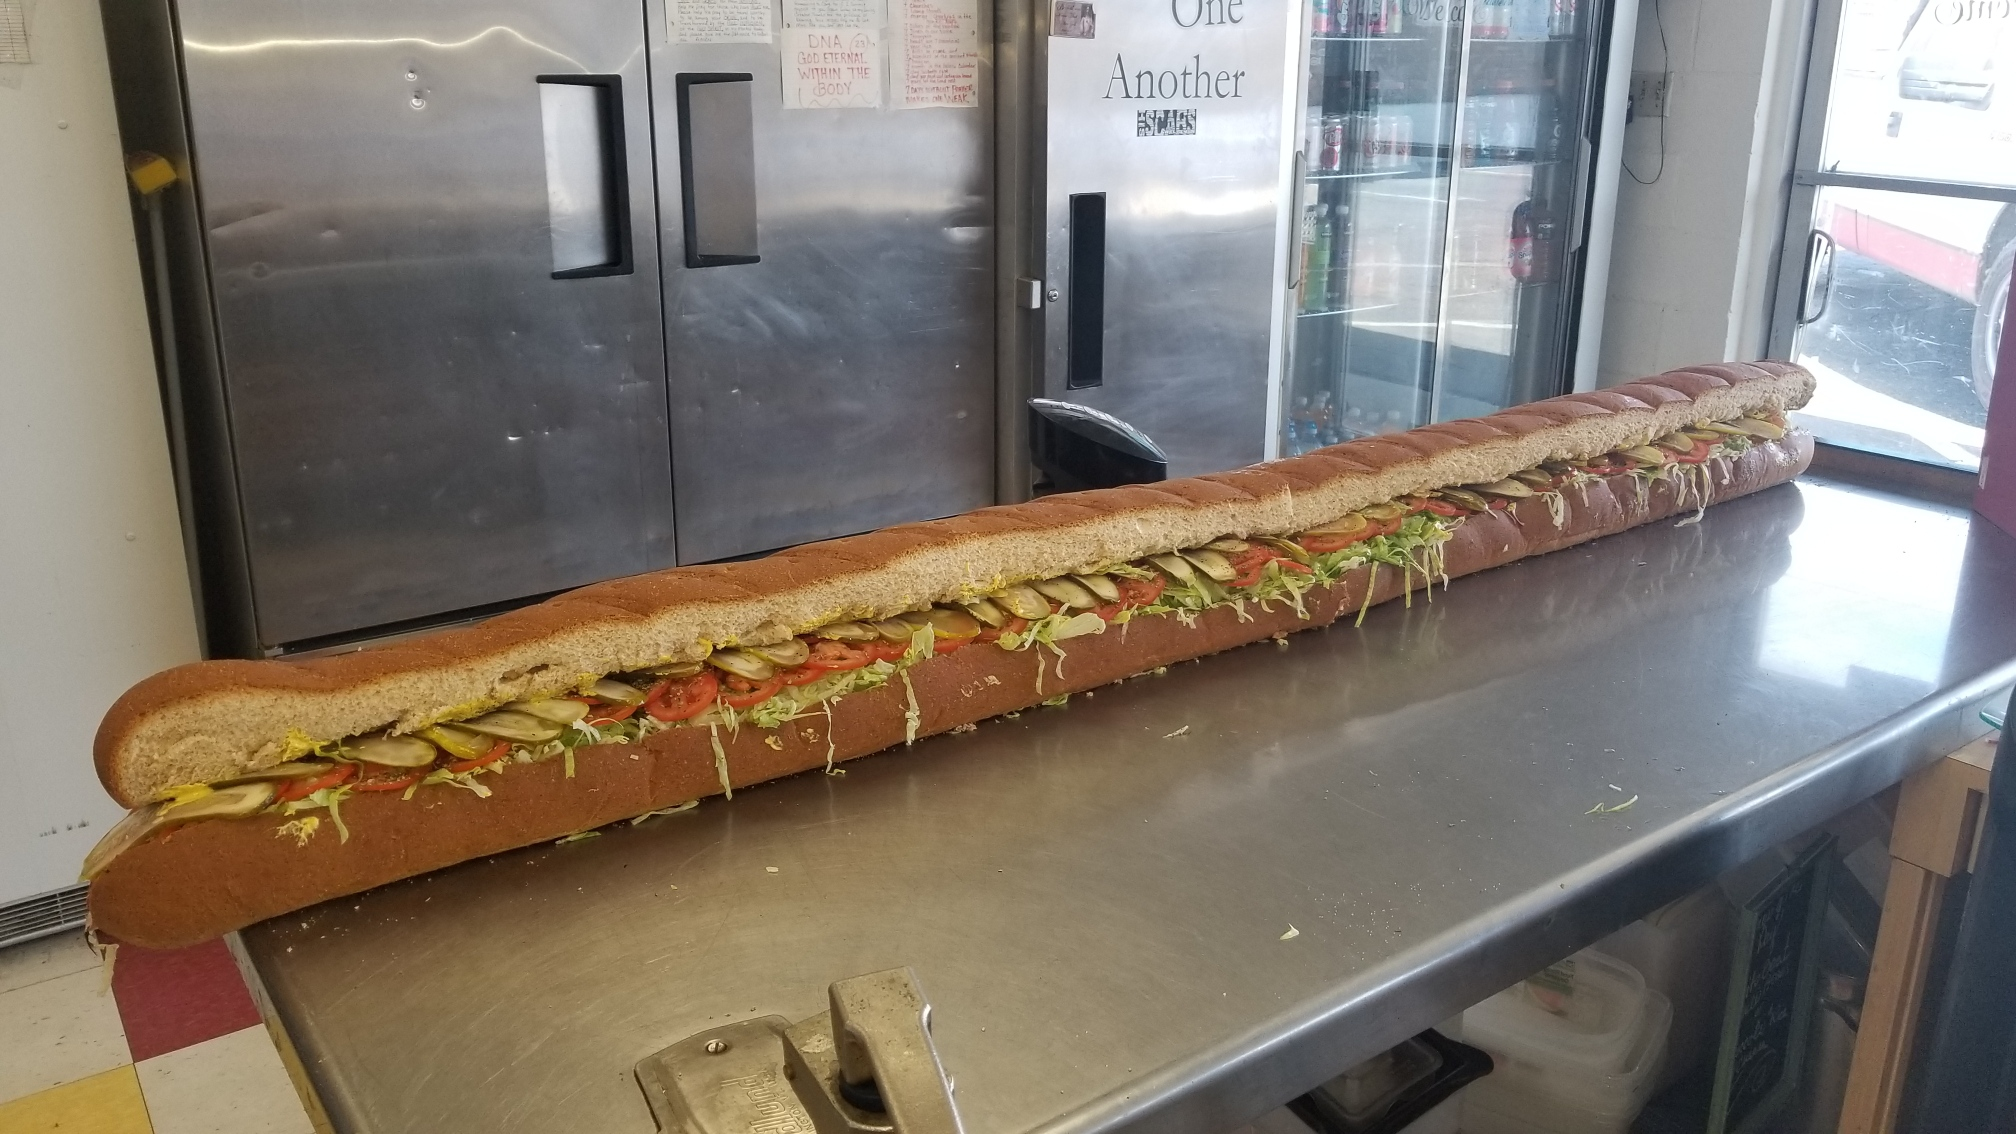
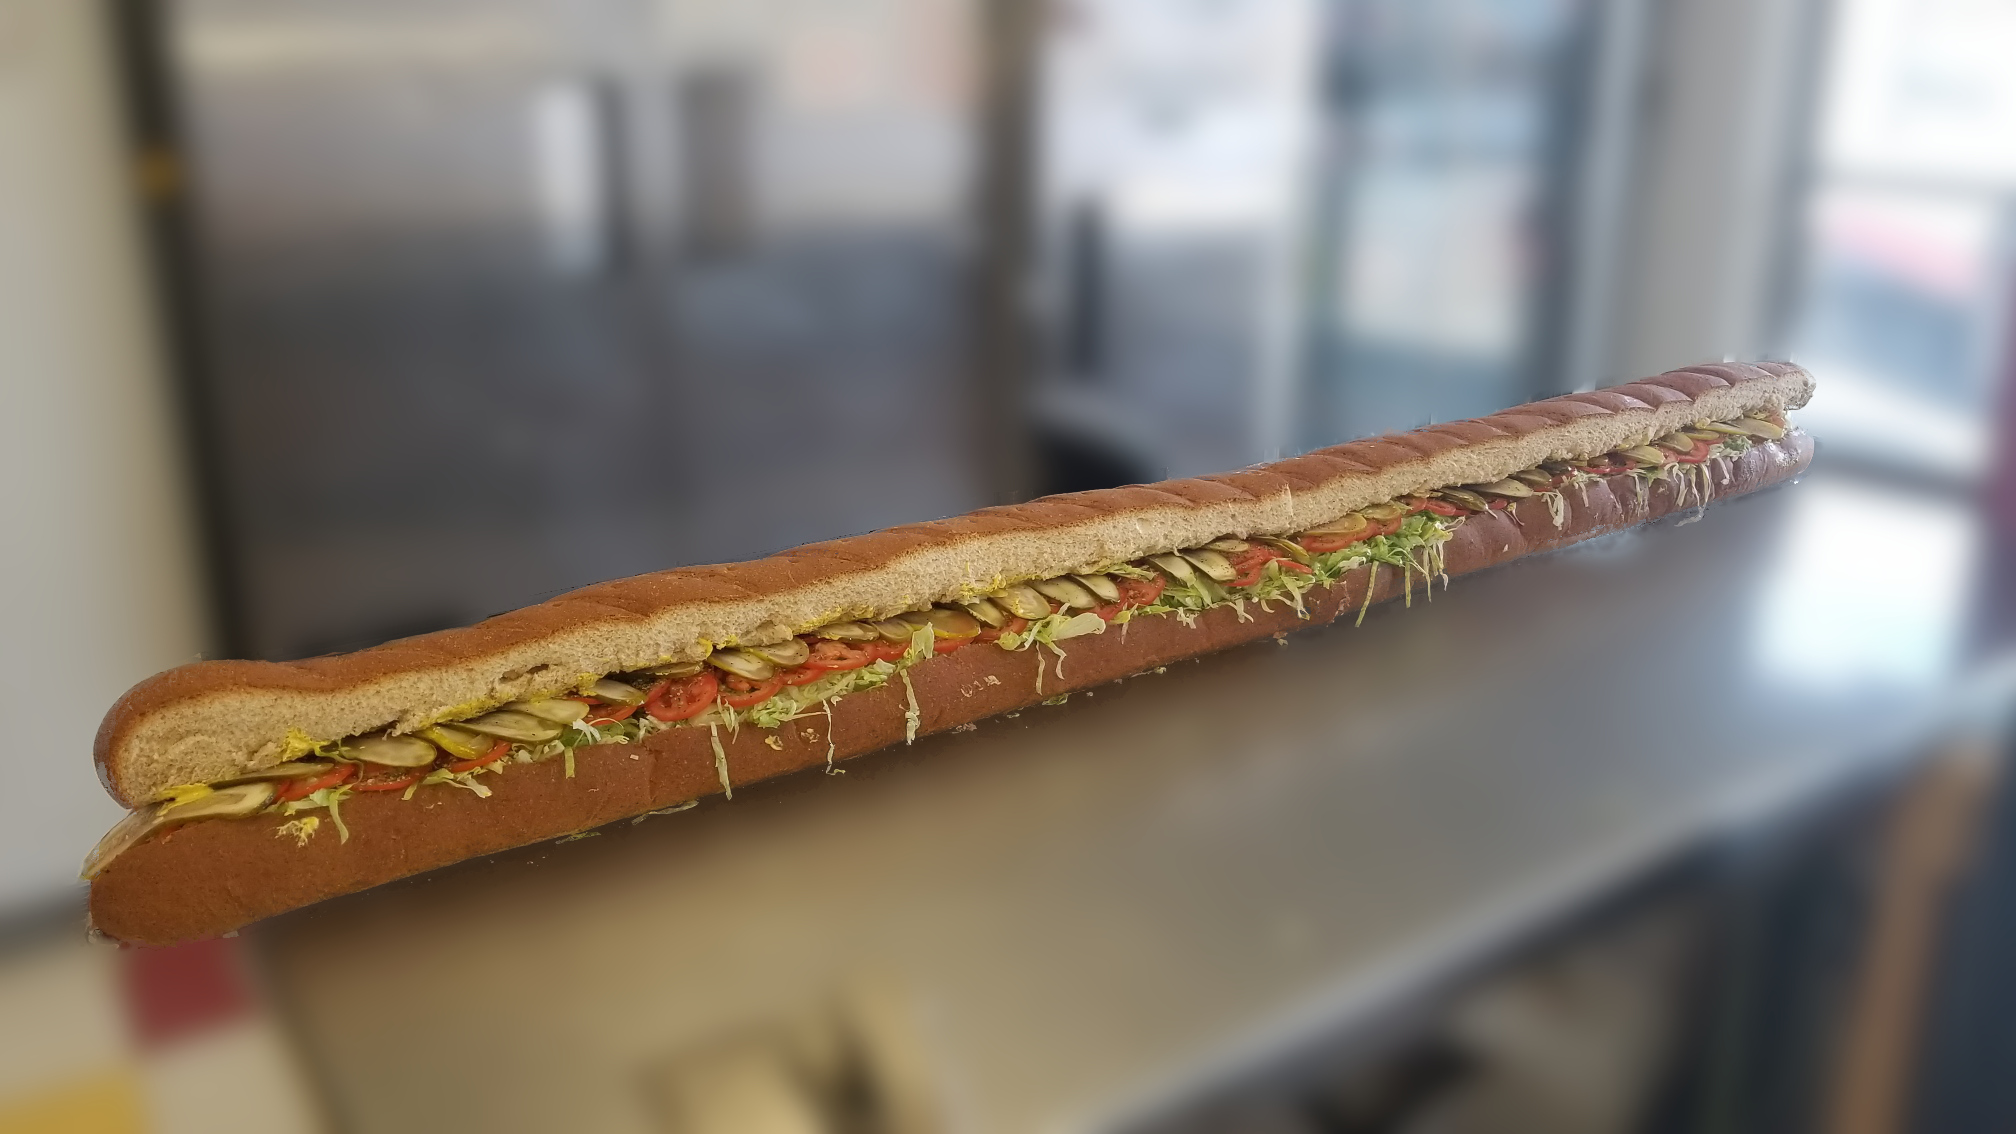
finish version 1

diff --git a/menu.html b/menu.html
@@ -58,6 +58,14 @@
 		.smallSection {
 			margin-left: 20%
 		}
+		div.marginChange {
+			padding-right: 15px;
+		}
+	}
+	@media (min-width: 981px) {
+		div.marginChange {
+
+		}
 	}
 
 </style>
@@ -118,7 +126,7 @@
 			<div class="col-6 col-12-medium">
 				<dl id="more-1" class="fulltext1" style="background-color: whitesmoke">
 					<div class="row">
-						<div class="col-6 col-12-medium" style="margin-top: -20px">
+						<div class="col-6 col-12-medium marginChange" style="margin-top: -20px">
 							<div class="menuitem card"><span>PB & J Sandwich</span><span class="menuitem" style="padding-left: 10px; float: right"> $5.95</span></div><hr style="border-color: #222222"/>
 							<div class="menuitem card"><span>Egg & Cheese Sandwich</span><span class="menuitem" style="padding-left: 10px; float: right"> $5.25</span></div><hr style="border-color: #222222"/>
 							<div class="menuitem card"><span>Ham, Egg & Cheese Sandwich</span><span class="menuitem" style="padding-left: 10px; float: right"> $5.75</span></div><hr style="border-color: #222222"/>
@@ -141,7 +149,7 @@
 			<div class="col-6 col-12-medium">
 				<dl id="more-2" class="fulltext2" style="background-color: whitesmoke">
 					<div class="row">
-						<div class="col-6 col-12-medium" style="margin-top: -20px">
+						<div class="col-6 col-12-medium marginChange" style="margin-top: -20px">
 							<div class="menuitem card"><span>Ham</span><span class="menuitem" style="padding-left: 10px; float: right"> $8.25</span></div><hr style="border-color: #222222"/>
 							<div class="menuitem card"><span>Turkey</span><span class="menuitem" style="padding-left: 10px; float: right"> $8.25</span></div><hr style="border-color: #222222"/>
 							<div class="menuitem card"><span>Roast Beef</span><span class="menuitem" style="padding-left: 10px; float: right"> $8.25</span></div><hr style="border-color: #222222"/>
@@ -188,7 +196,7 @@
 			<div class="col-6 col-12-medium">
 				<dl id="more-3" class="fulltext3" style="background-color: whitesmoke">
 					<div class="row">
-						<div class="col-6 col-12-medium" style="margin-top: -20px">
+						<div class="col-6 col-12-medium marginChange" style="margin-top: -20px">
 							<div class="menuitem card"><span>Bomber Burger</span><span class="menuitem" style="padding-left: 10px; float: right"> $8.95</span></div><hr style="border-color: #222222"/>
 							<div class="menuitem card"><span>Avocado Burger</span><span class="menuitem" style="padding-left: 10px; float: right"> $7.95</span></div><hr style="border-color: #222222"/>
 							<div class="menuitem card"><span>Pastrami Burger</span><span class="menuitem" style="padding-left: 10px; float: right"> $7.95</span></div><hr style="border-color: #222222"/>
@@ -209,7 +217,7 @@
 			<div class="col-6 col-12-medium">
 				<dl id="more-4" class="fulltext4" style="background-color: whitesmoke">
 					<div class="row">
-						<div class="col-6 col-12-medium" style="margin-top: -20px">
+						<div class="col-6 col-12-medium marginChange" style="margin-top: -20px">
 							<div class="menuitem card"><span>Chef Salad</span><span class="menuitem" style="padding-left: 10px; float: right"> $8.25</span></div><hr style="border-color: #222222"/>
 							<div class="menuitem card"><span>Tuna Salad</span><span class="menuitem" style="padding-left: 10px; float: right"> $8.25</span></div><hr style="border-color: #222222"/>
 						</div>
@@ -228,7 +236,7 @@
 			<div class="col-6 col-12-medium">
 				<dl id="more-5" class="fulltext5" style="background-color: whitesmoke">
 					<div class="row">
-						<div class="col-6 col-12-medium" style="margin-top: -20px">
+						<div class="col-6 col-12-medium marginChange" style="margin-top: -20px">
 							<div class="menuitem card"><span>Nachos</span><span class="menuitem" style="padding-left: 10px; float: right"> $5.95</span></div><hr style="border-color: #222222"/>
 							<div class="menuitem card"><span>Nachos Grande</span><span class="menuitem" style="padding-left: 10px; float: right"> $8.95</span></div><hr style="border-color: #222222"/>
 							<div class="menuitem card"><span>Tostada w/ Guacamole</span><span class="menuitem" style="padding-left: 10px; float: right"> $5.95</span></div><hr style="border-color: #222222"/>

diff --git a/catering.html b/catering.html
@@ -62,29 +62,18 @@
 									<!-- Content -->
 										<article>
 
-											<h2>Right Sidebar</h2>
+											<h2>Catering</h2>
 
-											<p>Phasellus quam turpis, feugiat sit amet ornare in, hendrerit in lectus.
-											Praesent semper mod quis eget mi. Etiam eu ante risus. Aliquam erat volutpat.
-											Aliquam luctus et mattis lectus sit amet pulvinar. Nam turpis nisi
-											consequat etiam lorem ipsum dolor sit amet nullam.</p>
+											<section class="widget thumbnails">
+												<div class="grid">
+													<div class="row gtr-50">
+														<div class="col-12"><a href="#" class="image fit"><img src="images/6ftSub.jpeg" alt="" /></a></div>
+														<div class="col-12"><a href="#" class="image fit"><img src="images/groupEvents.png" alt="" /></a></div>
+														<div class="col-12"><a href="#" class="image fit"><img src="images/holidayCatering.jpeg" alt="" /></a></div>
+													</div>
+												</div>
+											</section>
 
-											<h3>More intriguing information</h3>
-											<p>Lorem ipsum dolor sit amet, consectetur adipiscing elit. Maecenas ac quam risus, at tempus
-											justo. Sed dictum rutrum massa eu volutpat. Quisque vitae hendrerit sem. Pellentesque lorem felis,
-											ultricies a bibendum id, bibendum sit amet nisl. Mauris et lorem quam. Maecenas rutrum imperdiet
-											vulputate. Nulla quis nibh ipsum, sed egestas justo. Morbi ut ante mattis orci convallis tempor.
-											Etiam a lacus a lacus pharetra porttitor quis accumsan odio. Sed vel euismod nisi. Etiam convallis
-											rhoncus dui quis euismod. Maecenas lorem tellus, congue et condimentum ac, ullamcorper non sapien.
-											Donec sagittis massa et leo semper a scelerisque metus faucibus. Morbi congue mattis mi.
-											Phasellus sed nisl vitae risus tristique volutpat. Cras rutrum commodo luctus.</p>
-
-											<p>Phasellus odio risus, faucibus et viverra vitae, eleifend ac purus. Praesent mattis, enim
-											quis hendrerit porttitor, sapien tortor viverra magna, sit amet rhoncus nisl lacus nec arcu.
-											Suspendisse laoreet metus ut metus imperdiet interdum aliquam justo tincidunt. Mauris dolor urna,
-											fringilla vel malesuada ac, dignissim eu mi. Praesent mollis massa ac nulla pretium pretium.
-											Maecenas tortor mauris, consectetur pellentesque dapibus eget, tincidunt vitae arcu.
-											Vestibulum purus augue, tincidunt sit amet iaculis id, porta eu purus.</p>
 
 										</article>
 
@@ -95,28 +84,15 @@
 
 									<!-- Sidebar -->
 										<section>
-											<h3>Subheading</h3>
-											<p>Phasellus quam turpis, feugiat sit amet ornare in, hendrerit in lectus.
-											Praesent semper mod quis eget mi. Etiam eu ante risus. Aliquam erat volutpat.
-											Aliquam luctus et mattis lectus sit amet pulvinar. Nam turpis nisi
-											consequat etiam.</p>
-											<footer>
-												<a href="#" class="button icon solid fa-info-circle">Find out more</a>
-											</footer>
-										</section>
+											<p>Whether it is for an employee lunch, a weekend get together, or game 7 of the world series,
+												we've got you covered. With many options available, including individual sandwiches and
+												salads, and 3', 4' or 6' subs. Let us do the work while you enjoy your event! </p>
 
-										<section>
-											<h3>Subheading</h3>
-											<ul class="style2">
-												<li><a href="#">Amet turpis, feugiat et sit amet</a></li>
-												<li><a href="#">Ornare in hendrerit in lectus</a></li>
-												<li><a href="#">Semper mod quis eget mi dolore</a></li>
-												<li><a href="#">Quam turpis feugiat sit dolor</a></li>
-												<li><a href="#">Amet ornare in hendrerit in lectus</a></li>
-												<li><a href="#">Semper mod quisturpis nisi</a></li>
-											</ul>
-										</section>
+											<p> Events are always enjoyed more when you don't have to spend the whole time in the kitchen.
+												So kick up your feet, relax and let us do the cooking. </p>
 
+											<h3>Come by and talk to us about planning your next event!</h3>
+										</section>
 								</div>
 							</div>
 						</div>

diff --git a/about.html b/about.html
@@ -67,7 +67,9 @@
 										<div class="inner">
 											<header>
 												<h2>Welcome to The Sandwich Man</h2>
-												<p>Jessie & Shelly have been making tummies full and happy since 2004.</p>
+												<p>The Sandwich man has been open since 1965 and Jessie & Shelly have been making tummies full and happy as the owners since 2004.</p>
+												<br/>
+												<p>We have a passion for not only making delicious meals, but with building relationships with our customers. Most of our customers are regulars, and we get to see them often. We are confident that if you give us a try, we will get to know you as well because you will come to visit us often!</p>
 											</header>
 										</div>
 									</section>
@@ -76,7 +78,43 @@
 
 							<h2 style="font-family: Chalkboard,serif; text-align: center">Come as a guest, leave as family</h2>
 
+						</div>
+					</div>
+				</div>
 
+
+				<div id="main-wrapper">
+					<div class="container">
+						<div class="row gtr-200">
+							<div class="col-4 col-12-medium">
+
+								<!-- Sidebar -->
+									<div id="sidebar" style="align-items: center">
+										<section class="widget thumbnails">
+											<h3>Map & Directions</h3>
+											<div class="col-6"><a href="https://goo.gl/maps/NFseG6z8xscDKA8C6" title="Click for directions" class="image fit"><img src="images/map.png" alt="" /></a></div>
+											<a style="margin: auto" href="https://goo.gl/maps/NFseG6z8xscDKA8C6" class="button icon fa-map">Directions</a>
+										</section>
+
+										<section class="widget thumbnails">
+											<h3>Hours</h3>
+											<div class="col-6"><b>Monday - Friday:</b> 7:30am - 2:30pm</div>
+										</section>
+									</div>
+
+							</div>
+							<div class="col-8 col-12-medium imp-medium">
+
+								<!-- Content -->
+									<div id="content2">
+										<section class="last">
+											<h2>Location</h2>
+											We are located in East Ventura near where Hwy 118 (Los Angeles Ave) meets Hwy 126 and have been since 1965. Come on in and sit down or call ahead, and we will have your order ready for pickup.
+											<a class="image fit"><img src="images/outside.png" alt="" /></a></div>
+										</section>
+									</div>
+
+							</div>
 						</div>
 					</div>
 				</div>

diff --git a/components/nav.js b/components/nav.js
@@ -12,21 +12,12 @@ class NavBarMenu extends HTMLElement {
                     <li id="menus">
                         <a href="menu.html">Menus</a>
                         <ul>
-                            <li><a href="menu.html#Breakfast">Breakfast</a>
-                                <ul>
-                                    <li><a href="menu.html#BreakfastSandwich">Sandwiches</a></li>
-                                    <li><a href="menu.html#BreakfastBurritos">Burritos</a></li>                                    
-                                </ul>
+                            <li>
+                                <a href="menu.html#Breakfast">Breakfast</a>                                
                             </li>
-                            <li><a href="menu.html#Lunch">Lunch</a>
-                                <ul>
-                                    <li><a href="menu.html#LunchSandwich">Sandwiches</a></li>
-                                    <li><a href="menu.html#LunchBurger">Burgers</a></li>
-                                    <li><a href="menu.html#LunchSouth">South of the border</a></li>
-                                    <li><a href="menu.html#LunchSalad">Salads</a></li>
-                                </ul>
-                            </li>
-                            <li><a href="menu.html#Extra">Extras</a></li>
+                            <li>
+                                <a href="menu.html#Lunch">Lunch</a>                                
+                            </li>                            
                         </ul>
                     </li>
 <!--                    <li id="location"><a href="location.html">Location</a></li>-->

diff --git a/index.html b/index.html
@@ -156,6 +156,11 @@
 											<div class="col-6"><a href="https://goo.gl/maps/NFseG6z8xscDKA8C6" title="Click for directions" class="image fit"><img src="images/map.png" alt="" /></a></div>
 											<a style="margin: auto" href="https://goo.gl/maps/NFseG6z8xscDKA8C6" class="button icon fa-map">Directions</a>
 										</section>
+
+										<section class="widget thumbnails">
+											<h3>Hours</h3>
+											<div class="col-6"><b>Monday - Friday:</b> 7:30am - 2:30pm</div>
+										</section>
 									</div>
 
 							</div>
